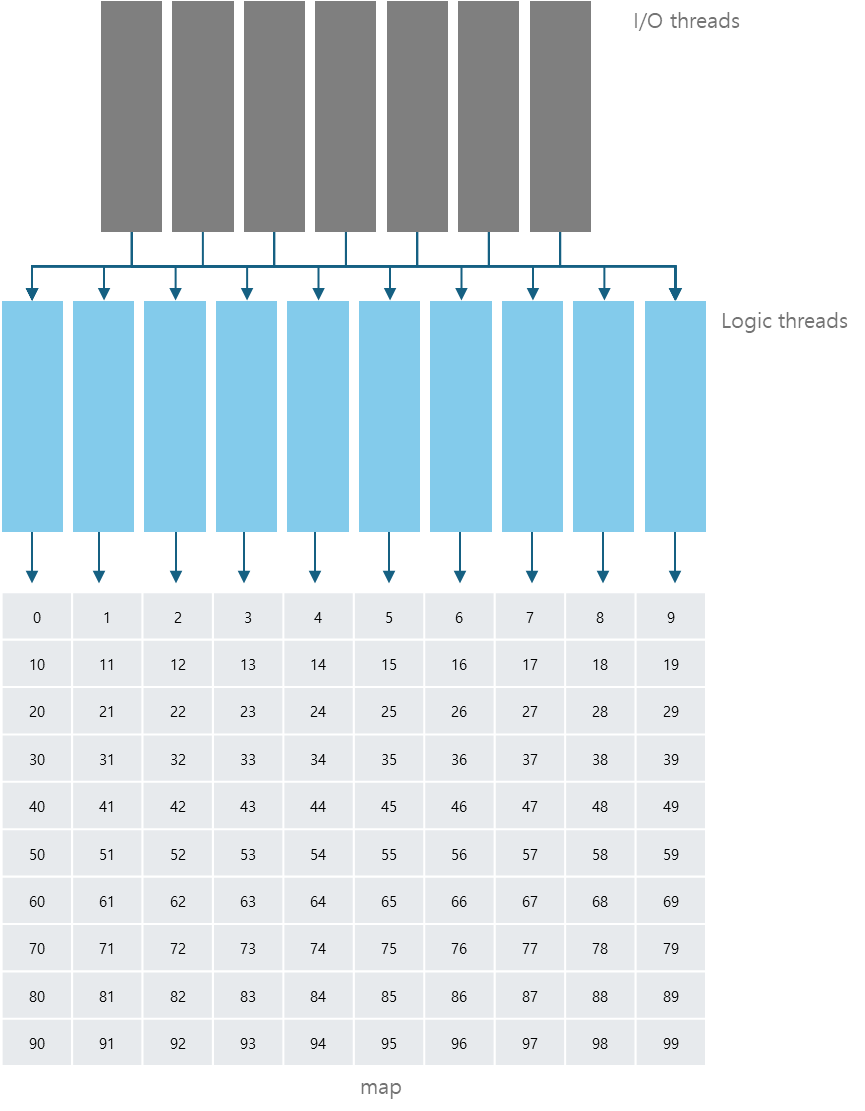
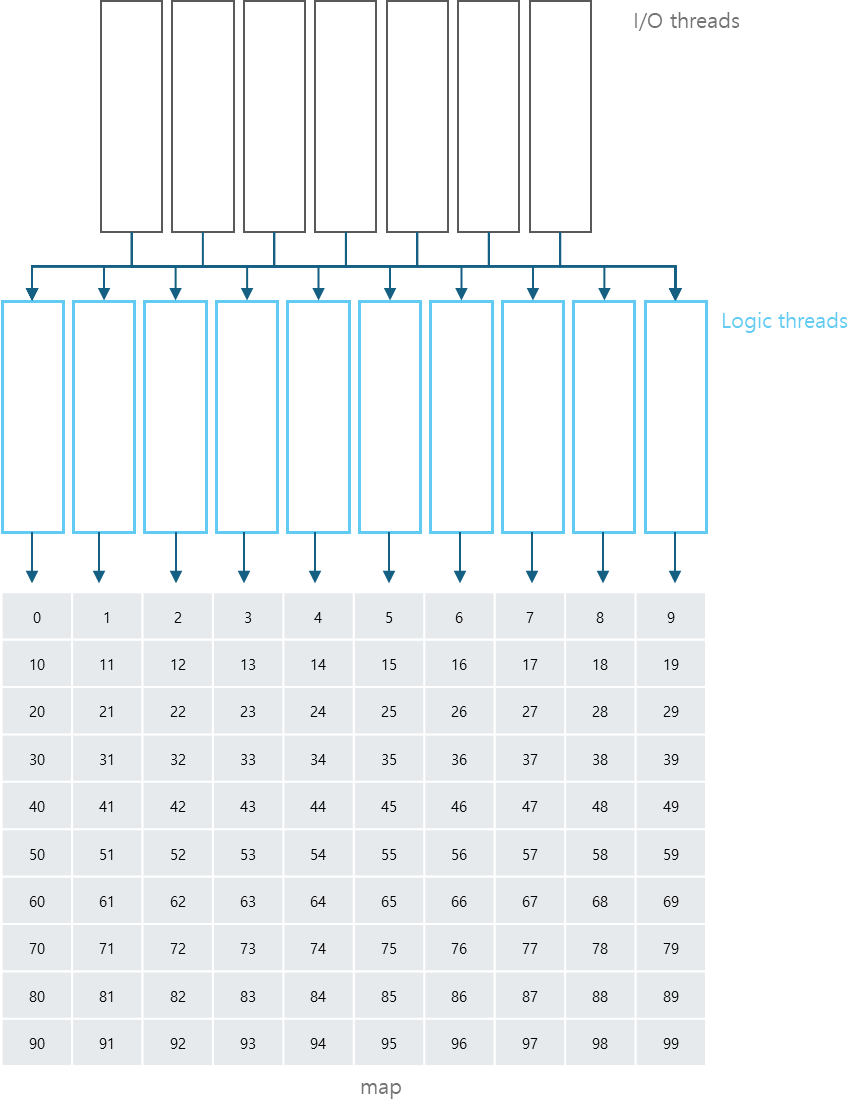
docs: update README architecture and thread model
- Restructure architecture as world-based (shared vs per-world services)
- Update architecture.png and thread.png
- Clarify thread assignment formula (thread_index = map.id % logic_thread_count)

Changed region(s): [[0.0, 0.2448, 0.9676, 0.4896], [0.0936, 0.0, 0.6867, 0.2142]]

diff --git a/README.md b/README.md
@@ -15,26 +15,31 @@ fb is a 2D MMORPG game server written in C++20.
 
 ![Architecture](resources/image/architecture.png)
 
-The server is organized into three layers:
+The server is organized around **worlds**: each world has its own data and services, while some services are shared across all worlds.
 
-### Infrastructure Layer (infra)
-- **MySQL (Global)**: Stores global data shared across all servers (accounts, global configuration)
-- **MySQL (Data)**: Sharded databases for game data (characters, items, etc.)
-- **MySQL (Log)**: Sharded databases dedicated to logging (player actions, system events)
-- **Redis**: Distributed cache layer for hot data, reducing database load
-- **RabbitMQ (Data)**: Message broker for inter-server notifications and events
-- **RabbitMQ (Log)**: Message broker for asynchronous log processing
+### Shared services (world-independent)
+- **Gateway**: The single entry point for all clients. It checks client version, issues encryption keys, and provides a list of available worlds and their login servers. Clients connect to Gateway first, then to the chosen world's Login.
+- **Internal**: Central service that all Gateway, Login, and Game instances communicate with. It handles database operations, synchronizes global resources (e.g., parties, clans), and broadcasts notifications via RabbitMQ.
+- **Marketplace**: Shared service used by all worlds' Game servers for in-game marketplace operations.
 
-### Private Layer (private)
-- **Internal**: Enables communication between the gateway, login, and game servers, and manages database operations. It synchronizes global resources (e.g., parties, clans) and broadcasts notifications via RabbitMQ (Data).
-- **Write-back**: A standalone process that persists cached data from Redis to MySQL (Data/Global). It batches database writes for optimal performance.
-- **Log Scheduler**: Consumes log messages from RabbitMQ (Log) and writes them directly to MySQL (Log) without going through the write-back process.
+### Per-world structure
+Each world is organized into three layers:
 
-### Public Layer (public)
-Publicly accessible services that clients can directly connect to:
-- **Gateway**: The first point of contact for clients. It checks client version, issues encryption keys, and provides a list of available login servers.
-- **Login**: Handles account-related tasks like character creation and password changes, then directs clients to a game server. It communicates with other servers via the internal service.
-- **Game**: Runs one process per zone rather than scaling out. It also uses the internal service to communicate with other game servers.
+**Infrastructure (infra)** — per world:
+- **MySQL (Global)**: Global data for that world (accounts, configuration).
+- **MySQL (Data)**: Sharded databases for game data (characters, items, etc.).
+- **MySQL (Log)**: Sharded databases for logging (player actions, system events).
+- **Redis**: Cache layer for hot data (global + data shards).
+
+**Private** — per world:
+- **Write-back**: Persists cached data from Redis to MySQL (Global/Data) for that world. One instance per world.
+- **Log**: Consumes log messages from the shared RabbitMQ (Log) and writes them to that world's MySQL (Log).
+
+**Public** — per world (clients connect to these after choosing a world):
+- **Login**: Handles account-related tasks (character creation, password changes) and directs clients to a Game server in the same world. Communicates with Internal.
+- **Game**: Game logic and sessions. Multiple processes (containers) per world. Communicates with Internal and Marketplace.
+
+Shared infrastructure used by Internal, Marketplace, Log, etc. (not per-world) includes **Unified** MySQL, Redis, and **RabbitMQ** (Internal / Log).
 
 ## Map division
 
@@ -49,7 +54,7 @@ The game server divides each map into sectors. When an object's position changes
 All game logic for objects on the same map runs on the same logic thread. The I/O thread receives data and posts packets to the appropriate logic thread's queue. The logic thread parses the packet and runs the handler. We assign the logic thread by map ID:
 
 ```cpp
-thread_id = character.map.id % (logic_thread.length+1)
+thread_index = map.id % logic_thread_count
 ```
 
 This ensures objects on the same map are always processed by the same thread, eliminating locks between nearby objects. However, uneven map distribution can overload a single thread, and communication between different maps becomes more complex. You can configure the counts of I/O and logic threads in the config file.
